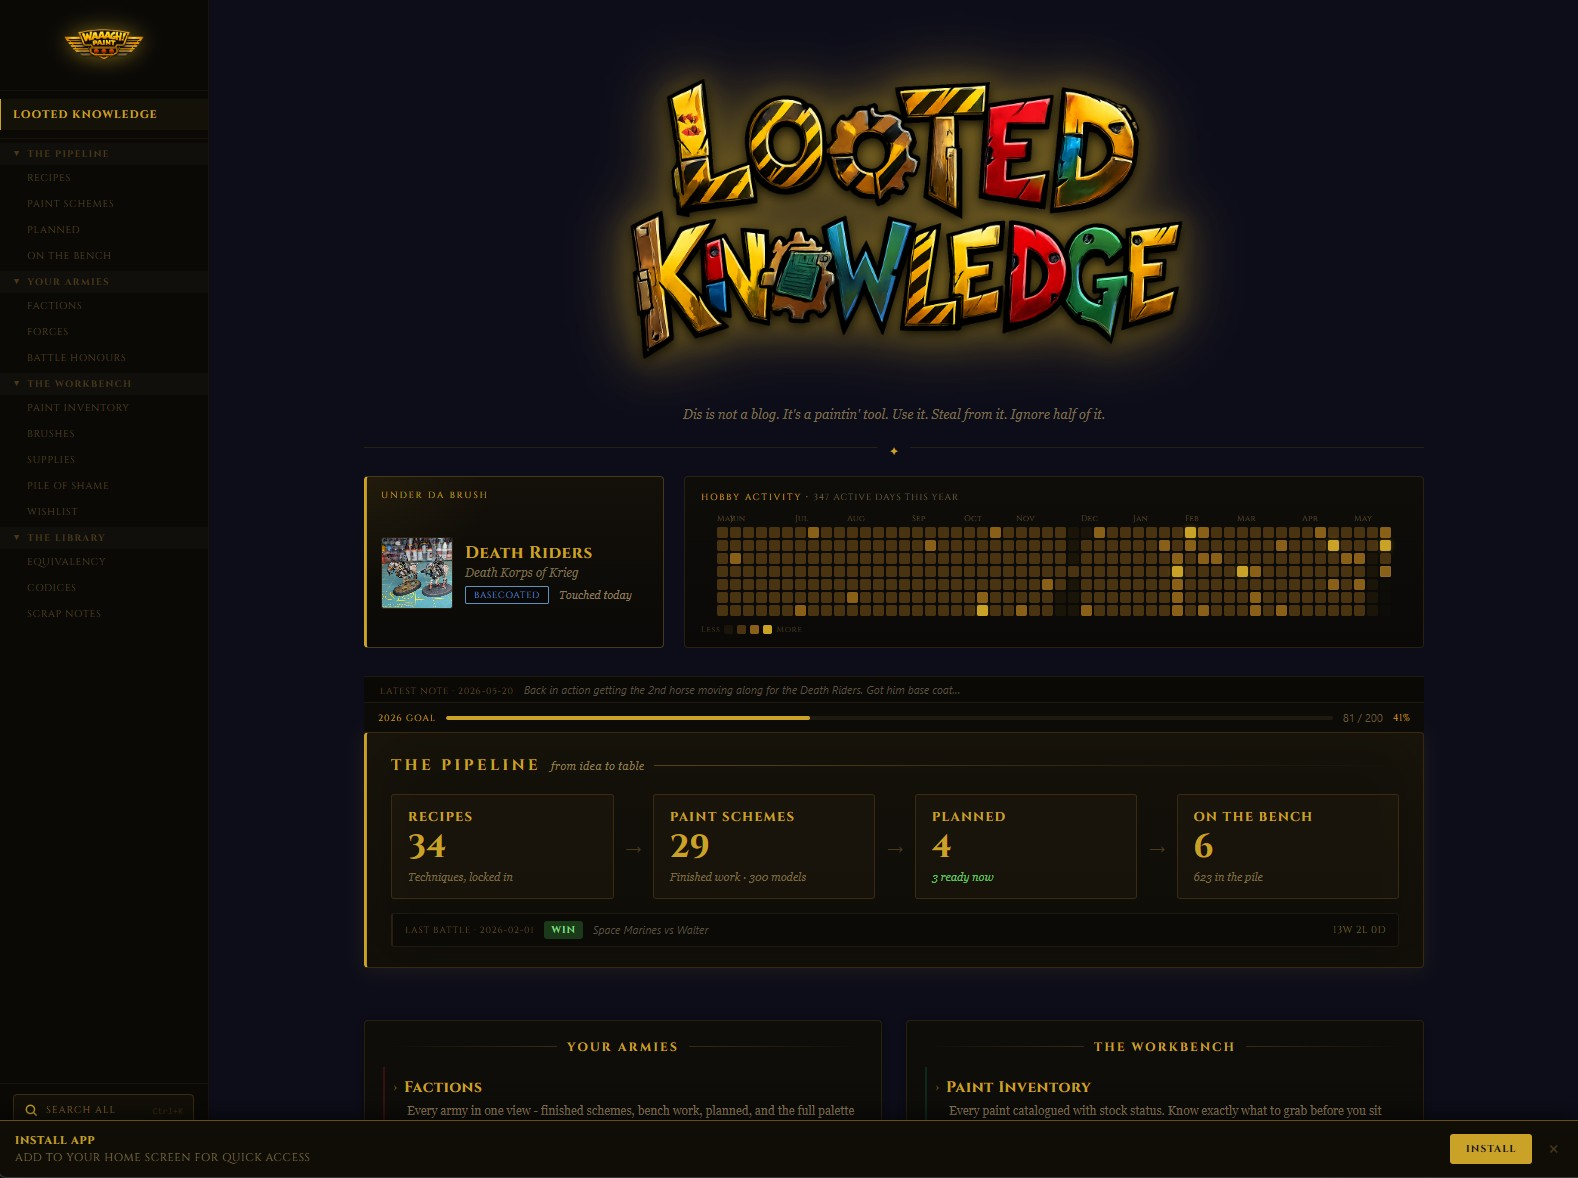
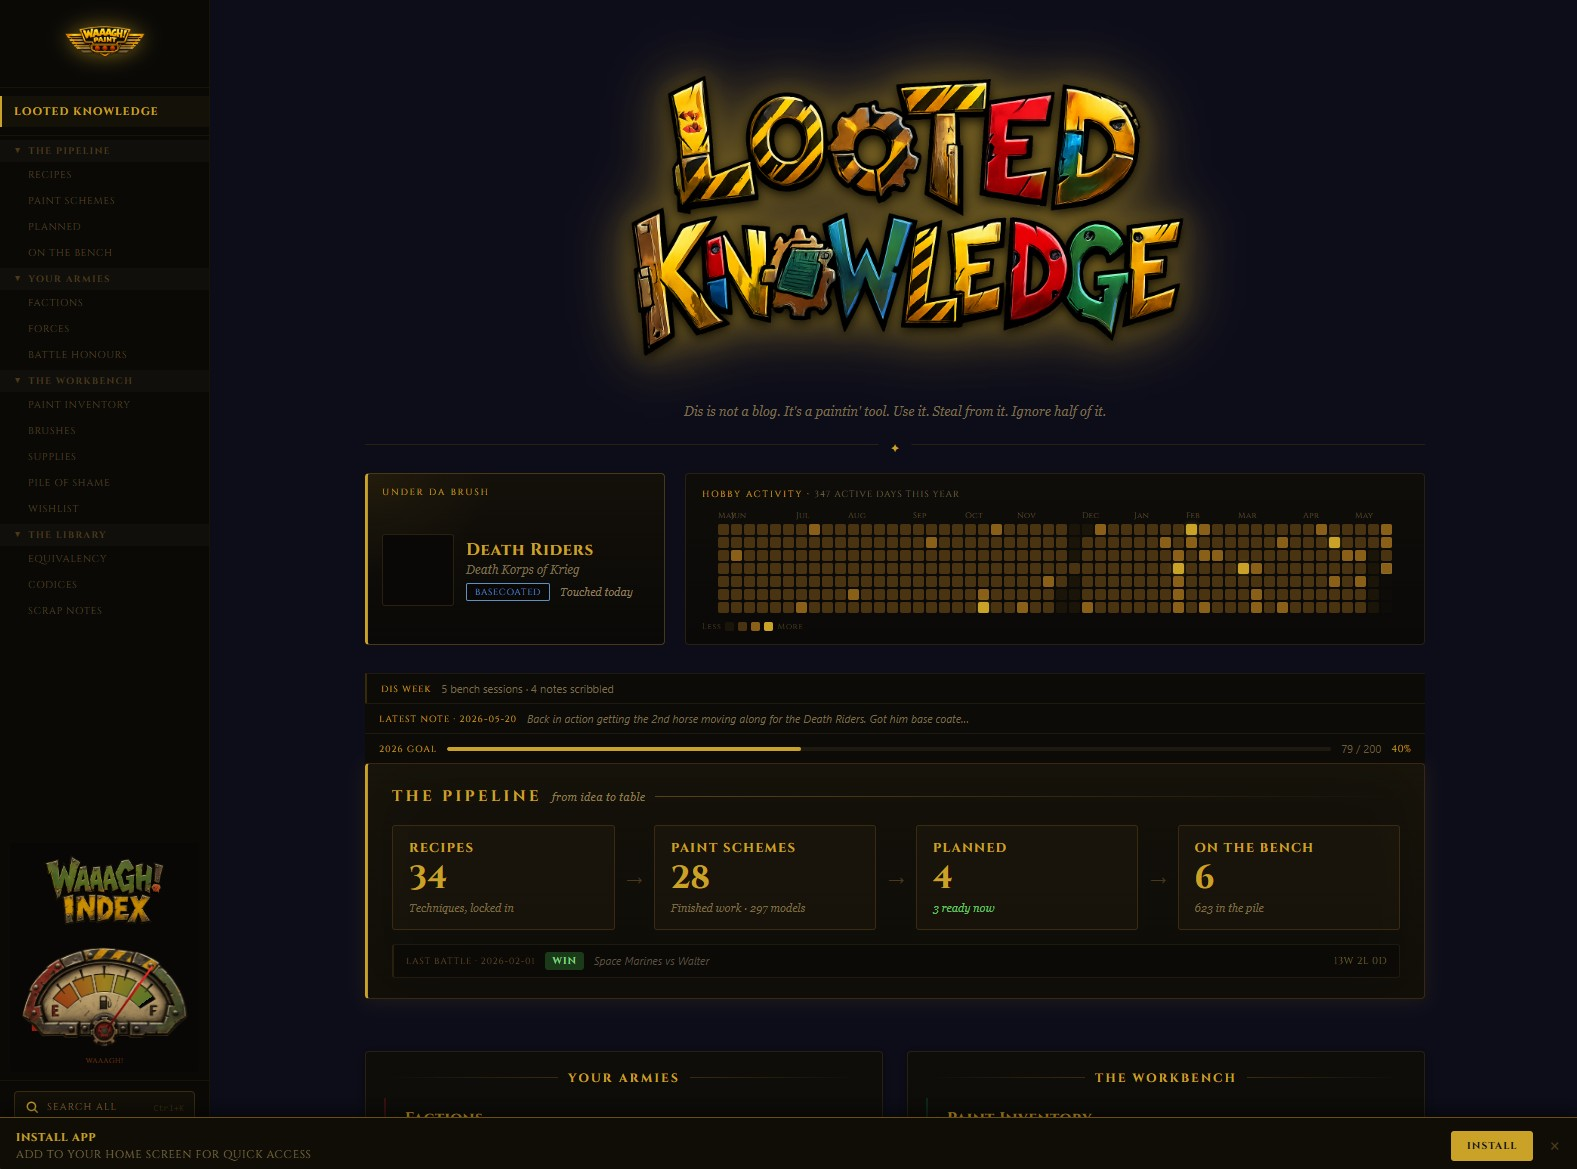
Waaagh! Index added

diff --git a/styles.css b/styles.css
@@ -3115,11 +3115,11 @@
 
     .hero-note-strip {
       display: flex;
-      align-items: baseline;
+      align-items: center;
       gap: 10px;
-      padding: 5px 16px;
-      background: #0a0906;
-      border-top: 1px solid #1e1810;
+      padding: 7px 14px;
+      background: #0c0b08;
+      border-top: 1px solid #1e1a10;
       text-decoration: none;
       cursor: pointer;
       overflow: hidden;
@@ -3129,21 +3129,21 @@
     .hero-note-label {
       font-family: var(--font-heading);
       font-size: 9px;
-      letter-spacing: .1em;
+      letter-spacing: .12em;
       text-transform: uppercase;
-      color: #6a5430;
+      color: var(--gold);
       white-space: nowrap;
       flex-shrink: 0;
     }
     .hero-note-body {
       font-size: 11px;
-      color: #5a5040;
+      color: #7a6a48;
       white-space: nowrap;
       overflow: hidden;
       text-overflow: ellipsis;
       font-style: italic;
     }
-    .hero-note-strip:hover .hero-note-body { color: #7a6850; }
+    .hero-note-strip:hover .hero-note-body { color: #9a8a60; }
     .hero-goal-strip { display: flex; align-items: center; gap: 10px; background: #0c0b08; border-top: 1px solid #1e1a10; padding: 7px 14px; }
     .hero-goal-label { font-family: var(--font-heading); font-size: 9px; color: var(--gold); letter-spacing: .12em; text-transform: uppercase; flex-shrink: 0; }
     .hero-goal-bar-wrap { flex: 1; height: 4px; background: #1e1a10; border-radius: 2px; overflow: hidden; }
@@ -3151,6 +3151,58 @@
     .hero-goal-num { font-size: 11px; color: #6a5a38; flex-shrink: 0; }
     .hero-goal-pct { font-family: var(--font-heading); font-size: 10px; color: var(--gold); letter-spacing: .04em; flex-shrink: 0; }
     .hero-goal-pct.goal-complete { color: #5a9a5a; }
+    .hero-week-strip { display: flex; align-items: center; gap: 10px; background: #0c0b08; border-top: 1px solid #1e1a10; border-left: 2px solid #3a2a00; padding: 7px 14px; }
+    .hero-week-strip.hero-week-quiet { border-left-color: #1e1a10; }
+    .hero-week-label { font-family: var(--font-heading); font-size: 9px; color: var(--gold); letter-spacing: .12em; text-transform: uppercase; flex-shrink: 0; }
+    .hero-week-body { font-size: 11px; color: #7a6a48; white-space: nowrap; overflow: hidden; text-overflow: ellipsis; }
+    .hero-week-quiet .hero-week-body { color: #4a4030; font-style: italic; }
+    .waaagh-meter { margin: 0 10px 8px; padding: 6px 8px; background: #080706; border-radius: 2px; flex-shrink: 0; }
+    .wm-title-img { display: block; width: 75%; margin: 0 auto 4px; }
+    .wm-gauge { position: relative; width: 100%; aspect-ratio: 3/2; }
+    .wm-fill {
+      position: absolute; inset: 0;
+      clip-path: polygon(50% 80%, 8% 80%, 8% 44%, 28% 14%, 50% 9%, 72% 14%, 92% 44%, 92% 80%);
+      background: conic-gradient(from 270deg at 50% 80%, #c02010 0deg, #c9a227 90deg, #3a8a3a 180deg, transparent 180deg, transparent 360deg);
+      -webkit-mask-image: conic-gradient(from 270deg at 50% 80%, black 0deg, black var(--wm-end), transparent var(--wm-end), transparent 360deg);
+      mask-image: conic-gradient(from 270deg at 50% 80%, black 0deg, black var(--wm-end), transparent var(--wm-end), transparent 360deg);
+    }
+    .meter-s0 .wm-fill { --wm-end: 36deg; }
+    .meter-s1 .wm-fill { --wm-end: 72deg; }
+    .meter-s2 .wm-fill { --wm-end: 108deg; }
+    .meter-s3 .wm-fill { --wm-end: 144deg; }
+    .meter-s4 .wm-fill { --wm-end: 180deg; }
+    .wm-gauge-img { position: absolute; inset: 0; width: 100%; height: 100%; display: block; }
+    .wm-needle {
+      position: absolute; left: 50%; bottom: 20%;
+      width: 2px; height: 70%; margin-left: -1px;
+      background: linear-gradient(to top, #0a0806 0%, #6a0808 20%, #c01010 60%, #ec2020 85%, #ff3a3a 100%);
+      transform-origin: 50% 100%;
+      transform: rotate(var(--wm-angle, 0deg));
+      border-radius: 1px 1px 0 0;
+      pointer-events: none; z-index: 3;
+    }
+    .meter-s0 .wm-needle { --wm-angle: -72deg; }
+    .meter-s1 .wm-needle { --wm-angle: -36deg; }
+    .meter-s2 .wm-needle { --wm-angle: 0deg; }
+    .meter-s3 .wm-needle { --wm-angle: 36deg; }
+    .meter-s4 .wm-needle { --wm-angle: 72deg; }
+    .wm-pivot {
+      position: absolute; left: 50%; bottom: 20%;
+      width: 8px; height: 8px;
+      background: radial-gradient(circle at 35% 35%, #4a4030, #1a1208);
+      border: 1px solid #3a3020; border-radius: 50%;
+      transform: translate(-50%, 50%);
+      pointer-events: none; z-index: 4;
+    }
+    .wm-state { font-family: var(--font-heading); font-size: 7px; letter-spacing: .08em; text-transform: uppercase; text-align: center; margin-top: 2px; }
+    .meter-s0 .wm-state { color: #3a3a3a; }
+    .meter-s1 .wm-state { color: #7a5020; }
+    .meter-s2 .wm-state { color: var(--gold); }
+    .meter-s3 .wm-state { color: #c05010; }
+    .meter-s4 .wm-state { color: #c02010; }
+    @keyframes wm-pulse { 0%, 100% { opacity: 1; } 50% { opacity: .55; } }
+    .meter-s3 .wm-fill, .meter-s3 .wm-state { animation: wm-pulse 1.8s ease-in-out infinite; }
+    .meter-s4 .wm-fill, .meter-s4 .wm-state { animation: wm-pulse 1.1s ease-in-out infinite; }
     .pipeline-battle-strip { display:flex; align-items:center; gap:10px; margin-top:14px; padding:7px 12px; background:rgba(0,0,0,.25); border-radius:3px; border:1px solid #1e1a10; border-left:2px solid #2a2010; text-decoration:none; cursor:pointer; transition:background .15s; overflow:hidden; }
     .pipeline-battle-strip:hover { background:rgba(201,162,39,.05); border-left-color:#4a3a10; }
     .pipeline-battle-label { font-family:var(--font-heading); font-size:9px; color:#6a5430; letter-spacing:.1em; text-transform:uppercase; white-space:nowrap; flex-shrink:0; }

diff --git a/index.php b/index.php
@@ -146,6 +146,51 @@ if (file_exists($convPath)) {
 }
 $conversionsDataJson = json_encode($conversionsData, JSON_HEX_TAG | JSON_HEX_APOS | JSON_HEX_QUOT | JSON_HEX_AMP);
 
+// Waaagh! Meter: rolling 7-day momentum score
+$_mWkAgo = date('Y-m-d', strtotime('-6 days'));
+$_mScore = 0;
+$_mModels = 0;
+foreach ($models as $_mm) {
+  foreach ($_mm['sessions'] ?? [] as $_ms) {
+    if (($_ms['date'] ?? '') >= $_mWkAgo) $_mModels += max(1, (int)($_ms['count'] ?? 1));
+  }
+}
+if ($_mModels > 0) { $_mScore += 3; if ($_mModels >= 3) $_mScore += 1; }
+$_mBench = 0;
+if ($hasBench) {
+  foreach ($benchData as $_mb) {
+    foreach ($_mb['sessions'] ?? [] as $_bs) {
+      if (($_bs['date'] ?? '') >= $_mWkAgo) $_mBench++;
+    }
+  }
+}
+if ($_mBench > 0) { $_mScore += 2; if ($_mBench >= 3) $_mScore += 1; }
+if ($hasJournal) {
+  foreach ($journalData as $_mj) {
+    if (($_mj['date'] ?? '') >= $_mWkAgo) { $_mScore += 1; break; }
+  }
+}
+if ($hasBench && !empty($benchData)) {
+  $_mActive = array_values(array_filter($benchData, fn($b) => ($b['stage'] ?? '') !== 'done'));
+  if (!empty($_mActive)) {
+    usort($_mActive, fn($a, $b) => strcmp($b['last_touched'] ?? '', $a['last_touched'] ?? ''));
+    $_mTs = strtotime($_mActive[0]['last_touched'] ?? '');
+    if ($_mTs) {
+      $_mDays = floor((time() - $_mTs) / 86400);
+      if      ($_mDays <= 1) $_mScore += 2;
+      elseif  ($_mDays <= 3) $_mScore += 1;
+      elseif  ($_mDays > 7)  $_mScore -= 1;
+    }
+  }
+}
+$meterScore = max(0, min(10, $_mScore));
+if      ($meterScore <= 1) { $meterState = "DOZIN'";         $meterClass = 'meter-s0'; $meterPips = 1; }
+elseif  ($meterScore <= 3) { $meterState = "STIRRIN'";       $meterClass = 'meter-s1'; $meterPips = 2; }
+elseif  ($meterScore <= 5) { $meterState = "ON DA WARPATH";  $meterClass = 'meter-s2'; $meterPips = 3; }
+elseif  ($meterScore <= 7) { $meterState = "WAAAGH!";        $meterClass = 'meter-s3'; $meterPips = 4; }
+else                        { $meterState = "FULL WAAAGH!!"; $meterClass = 'meter-s4'; $meterPips = 5; }
+unset($_mWkAgo, $_mScore, $_mModels, $_mBench, $_mm, $_ms, $_mb, $_bs, $_mj, $_mActive, $_mTs, $_mDays);
+
 header('X-Frame-Options: DENY');
 header('X-Content-Type-Options: nosniff');
 
@@ -204,7 +249,7 @@ if (($_POST['action'] ?? '') === 'track_tab') {
   <meta name="twitter:image" content="<?= htmlspecialchars(SITE_URL) ?>img/logo_sm.png">
   <link rel="preconnect" href="https://fonts.googleapis.com">
   <link href="https://fonts.googleapis.com/css2?family=Cinzel:wght@400;700;900&display=swap" rel="stylesheet">
-  <link rel="stylesheet" href="styles.css?v=39">
+  <link rel="stylesheet" href="styles.css?v=47">
   <script type="application/ld+json">
     {
       "@context": "https://schema.org",
@@ -271,6 +316,16 @@ if (($_POST['action'] ?? '') === 'track_tab') {
         </ul>
       </div>
     </nav>
+    <div class="waaagh-meter <?= $meterClass ?>">
+      <img src="img/waaagh.png" class="wm-title-img" alt="Waaagh! Index">
+      <div class="wm-gauge">
+        <div class="wm-fill"></div>
+        <img src="img/gauge.png" class="wm-gauge-img" alt="">
+        <div class="wm-needle"></div>
+        <div class="wm-pivot"></div>
+      </div>
+      <div class="wm-state"><?= htmlspecialchars($meterState) ?></div>
+    </div>
     <div class="sidebar-footer">
       <button id="gs-trigger" type="button" title="Search everything (Ctrl+K or /)" aria-label="Open global search">
         <svg width="14" height="14" viewBox="0 0 24 24" fill="none" stroke="currentColor" stroke-width="2.5" stroke-linecap="round" stroke-linejoin="round">
@@ -408,6 +463,36 @@ if (($_POST['action'] ?? '') === 'track_tab') {
       }
       unset($ownedKeys, $_p, $_pl, $_c, $allOwned, $parts2, $k2, $st);
 
+      // Dis Week: rolling 7-day activity summary
+      $weekAgo     = date('Y-m-d', strtotime('-6 days'));
+      $weekModels  = 0;
+      $weekBench   = 0;
+      $weekNotes   = 0;
+      $weekBattles = 0;
+      foreach ($models as $_m) {
+        foreach ($_m['sessions'] ?? [] as $_s) {
+          if (($_s['date'] ?? '') >= $weekAgo) $weekModels += max(1, (int)($_s['count'] ?? 1));
+        }
+      }
+      if ($hasBench) {
+        foreach ($benchData as $_b) {
+          foreach ($_b['sessions'] ?? [] as $_s) {
+            if (($_s['date'] ?? '') >= $weekAgo) $weekBench++;
+          }
+        }
+      }
+      if ($hasJournal) {
+        foreach ($journalData as $_j) {
+          if (($_j['date'] ?? '') >= $weekAgo) $weekNotes++;
+        }
+      }
+      if ($hasBattles) {
+        foreach ($battlesData as $_bh) {
+          if (($_bh['date'] ?? '') >= $weekAgo) $weekBattles++;
+        }
+      }
+      $weekActive = $weekModels || $weekBench || $weekNotes || $weekBattles;
+
       // Most-recently-touched active bench project (for the "Currently on the Bench" strip)
       $latestBench = null;
       if ($hasBench && !empty($benchData)) {
@@ -472,6 +557,22 @@ if (($_POST['action'] ?? '') === 'track_tab') {
           <?php endif; ?>
 
           <div id="hero-heatmap" class="hero-heatmap"></div>
+        </div>
+
+        <?php
+          $wkParts = [];
+          if ($weekModels  > 0) $wkParts[] = $weekModels  . ' model'          . ($weekModels  !== 1 ? 's' : '') . ' painted';
+          if ($weekBench   > 0) $wkParts[] = $weekBench   . ' bench session'   . ($weekBench   !== 1 ? 's' : '');
+          if ($weekBattles > 0) $wkParts[] = $weekBattles . ' battle'          . ($weekBattles !== 1 ? 's' : '') . ' fought';
+          if ($weekNotes   > 0) $wkParts[] = $weekNotes   . ' note'            . ($weekNotes   !== 1 ? 's' : '') . ' scribbled';
+        ?>
+        <div class="hero-week-strip<?= $weekActive ? '' : ' hero-week-quiet' ?>">
+          <span class="hero-week-label">Dis Week</span>
+          <?php if ($weekActive): ?>
+            <span class="hero-week-body"><?= implode(' &middot; ', $wkParts) ?></span>
+          <?php else: ?>
+            <span class="hero-week-body">Nowt done yet. Dem brushes ain't gonna pick demselves up.</span>
+          <?php endif; ?>
         </div>
 
         <?php if ($hasJournal && !empty($journalData)):

diff --git a/guide.php b/guide.php
@@ -234,8 +234,16 @@ if (empty($_SESSION['admin'])) {
     <div class="page-section-title"><span class="section-icon">🎨</span> The Main Site</div>
 
     <h3>Looted Knowledge (landing tab)</h3>
-    <p>The first thing you see - a magazine-style contents page. The top strip shows live counts for the most important numbers (Recipes, Schemes, On the Bench, Planned, Pile of Shame) as clickable anchors, laid out in a 3-column grid. A green <strong>Ready Now</strong> stat also appears whenever you have planned schemes where you already own every paint - click it to jump straight to the Planned tab filtered to those schemes. If you have an active bench project, the most recently touched one appears alongside the stats.</p>
-    <p>Below the strip, the page is laid out in sections:</p>
+    <p>The first thing you see. The hero area at the top contains several live widgets stacked vertically:</p>
+    <ul>
+      <li><strong>Under Da Brush</strong> - your most recently touched active bench project (photo, name, faction, current stage). Click to jump to the Bench tab. Only shown when you have active projects.</li>
+      <li><strong>Hobby Activity heatmap</strong> - a GitHub-style contribution grid showing 52 weeks of activity across schemes, bench work, journal entries, and battles. Today is always visible at the right edge.</li>
+      <li><strong>Dis Week</strong> - a one-line rolling 7-day summary: models painted, bench sessions, battles fought, notes scribbled. Only the non-zero stats appear. Goes quiet (italic Ork grumble) if nothing's been logged this week.</li>
+      <li><strong>Latest Note</strong> - first 90 characters of your most recent Scrap Notes entry with its date. Click to jump to the Scrap Notes tab. Only shown when Scrap Notes has been started.</li>
+      <li><strong>Annual Goal bar</strong> - progress toward your painted-model target for the current year. Only shown when a goal has been set in Admin Stats.</li>
+    </ul>
+    <p>Below the hero, <strong>The Pipeline</strong> shows Recipes → Paint Schemes → Planned → On the Bench as large stat cards with a green <strong>ready now</strong> count whenever you own every paint for a planned scheme. The last battle result also appears here if you have Battle Honours.</p>
+    <p>Below the pipeline, the page is laid out in sections:</p>
     <ul>
       <li><strong>The Handbook</strong> - Recipes, featured prominently at the top since it's the heart of the technique library</li>
       <li><strong>The Work</strong> - Paint Schemes, Factions, Pile of Shame, Planned, On the Bench, Battle Honours</li>
@@ -244,6 +252,15 @@ if (empty($_SESSION['admin'])) {
       <li><strong>Reading &amp; Inspiration</strong> - Codices, Scrap Notes</li>
     </ul>
     <p>Each entry shows a one-line description plus a live count. Opt-in sections (Recipes, Brushes, Pile of Shame, Bench, Forces &amp; Rosters, Battle Honours, Codices, Scrap Notes) only appear once their data file has been started in Admin. Click any entry to jump straight to that tab.</p>
+
+    <h3>Waaagh! Index</h3>
+    <p>A momentum gauge permanently visible at the bottom of the sidebar, between the nav groups and the Search button. It reads your current painting momentum at a glance - no clicking required.</p>
+    <ul>
+      <li>Scores your activity over the rolling 7 days: models painted, bench sessions logged, journal entries, and how recently you last touched the bench</li>
+      <li>Five states from dormant to frenzied: <strong>DOZIN'</strong> &rarr; <strong>STIRRIN'</strong> &rarr; <strong>ON DA WARPATH</strong> &rarr; <strong>WAAAGH!</strong> &rarr; <strong>FULL WAAAGH!!</strong></li>
+      <li>The needle on the gauge face points to your current level; the top two states pulse to signal a hot streak</li>
+      <li>Entirely passive - updates automatically each page load, nothing to set up or configure</li>
+    </ul>
 
     <h3>Global Search</h3>
     <p>Search everything at once - paints, schemes, recipes, planned schemes, bench projects, brushes, forces, battles, codices, and journal entries.</p>

diff --git a/README.md b/README.md
@@ -40,6 +40,8 @@ collapsible left-rail sidebar grouped into four sections.
 - **Hobby Wishlist** - paints, models, brushes, and books to buy; mark ordered/in transit
 - **Brush Inventory** - track brush condition (Prime / Workhorse / Retired)
 - **Supplies Inventory** - track hobby supplies (palettes, wet palettes, mats, lamps, etc.) with condition cycling
+- **Waaagh! Index** - persistent sidebar momentum gauge scoring your rolling 7-day activity across sessions, bench work, and journal entries; five states from DOZIN' to FULL WAAAGH!!
+- **Dis Week** - one-line hero strip summarising models painted, bench sessions, battles fought, and notes scribbled in the last 7 days
 - **Equivalency Search** - Citadel vs Vallejo vs Pro Acryl conversion table with owned-paint dots
 - **Codex Library** - optional army book and supplement tracker
 - **Scrap Notes** - optional freeform hobby journal with @mention linking to schemes and recipes